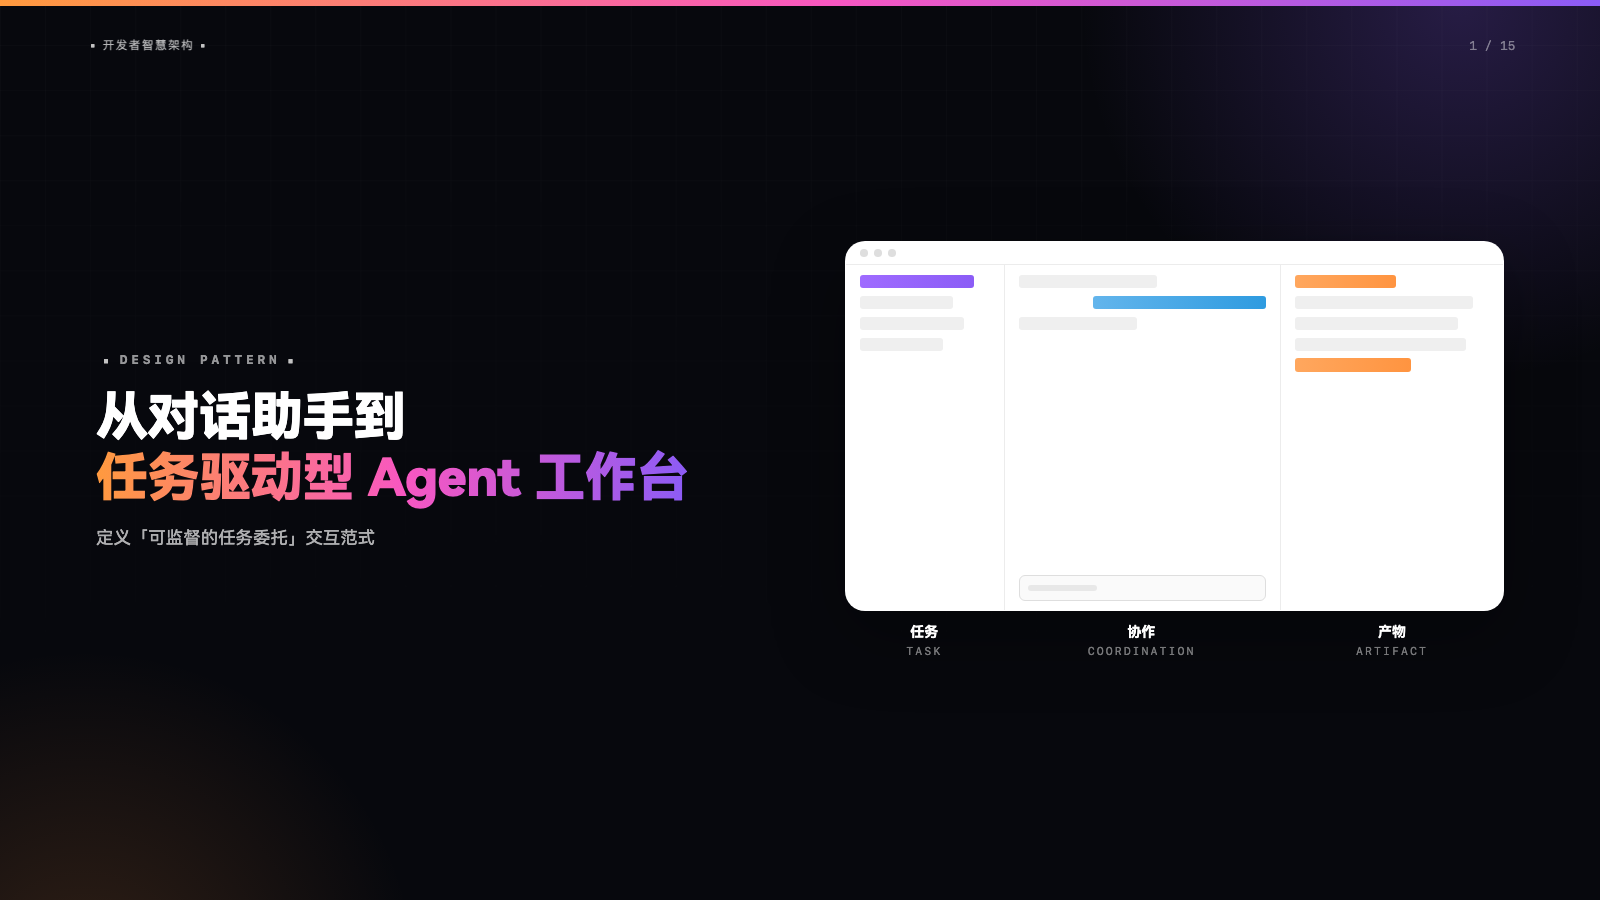
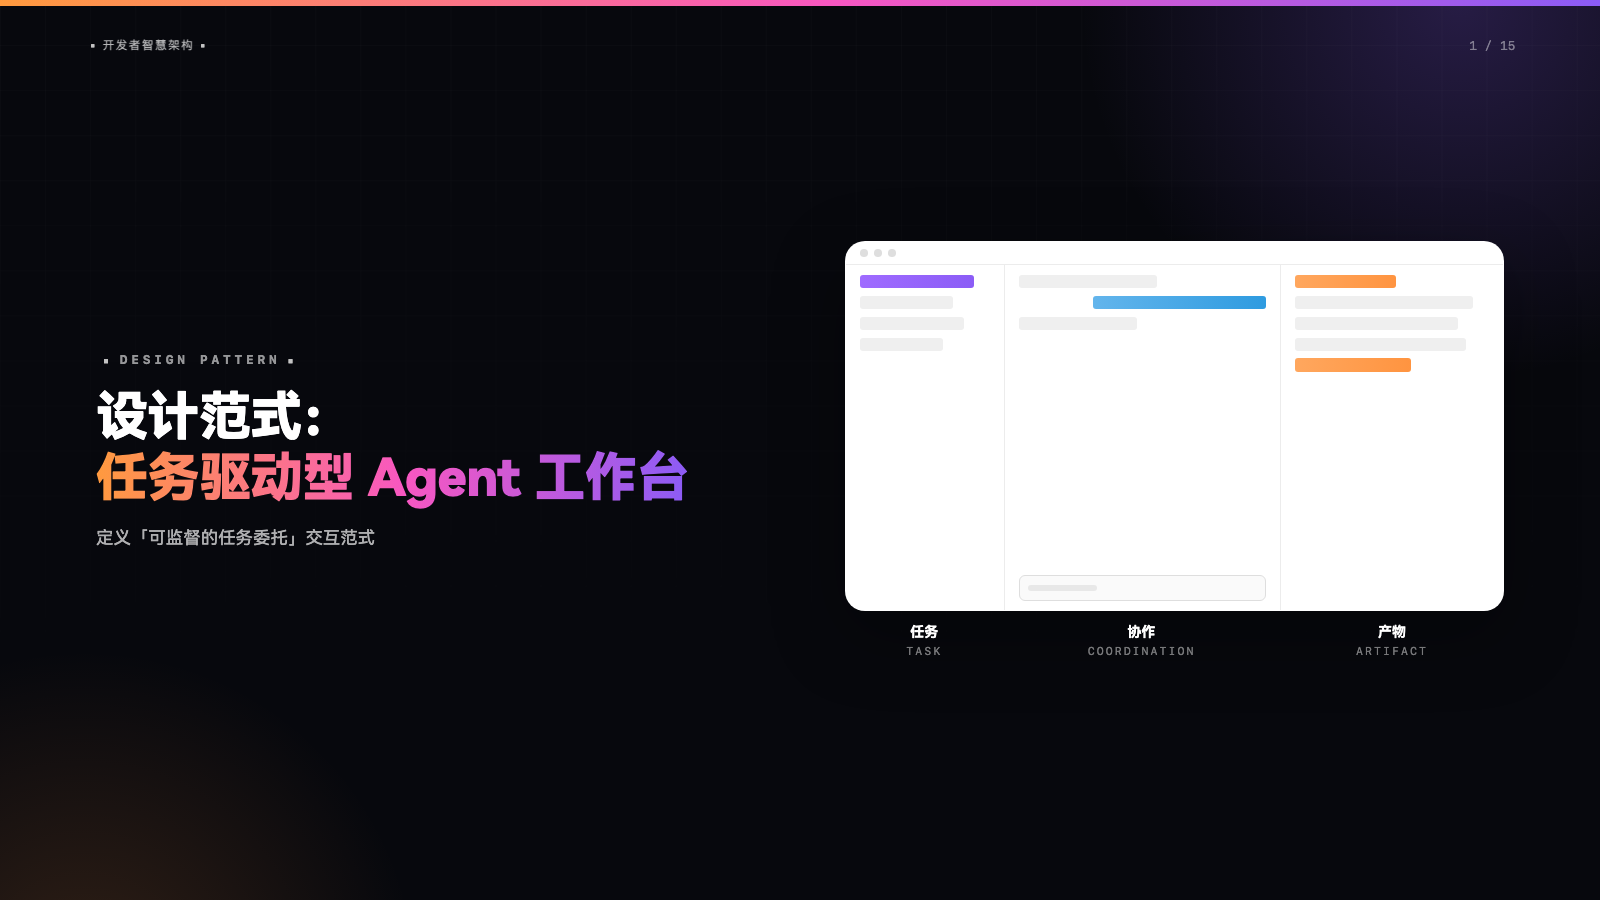
更新 Agent 工作台材料标题

Changed region(s): [[0.0625, 0.4356, 0.25, 0.4978]]

diff --git a/agent-workbench-paradigm/index.html b/agent-workbench-paradigm/index.html
@@ -3,7 +3,7 @@
 <head>
 <meta charset="utf-8">
 <meta name="viewport" content="width=device-width,initial-scale=1">
-<title>从对话助手到任务驱动型 Agent 工作台 · 汇报材料</title>
+<title>设计范式：任务驱动型 Agent 工作台 · 汇报材料</title>
 <link rel="stylesheet" href="https://cdn.jsdelivr.net/gh/IKKI2000/harmonyos-fonts@master/css/harmonyos_sans_sc.css">
 <style>
 /* ===== 设计 token ===== */
@@ -575,7 +575,7 @@ body{font-family:var(--sans);color:var(--ink);background:#0c0d10;
   <div class="cov-row">
   <div class="cov-l">
   <div class="c-kicker">DESIGN&nbsp;PATTERN</div>
-  <h1 class="c-title">从对话助手到<br><span class="kw">任务驱动型 Agent 工作台</span></h1>
+  <h1 class="c-title">设计范式：<br><span class="kw">任务驱动型 Agent 工作台</span></h1>
   <p class="c-sub">定义「可监督的任务委托」交互范式</p>
   </div>
   <div class="cov-r">

diff --git a/index.html b/index.html
@@ -338,7 +338,7 @@ const ITEMS = [
     href: "agentspace-insight/"
   },
   {
-    title: "从对话助手到任务驱动型 Agent 工作台",
+    title: "设计范式：任务驱动型 Agent 工作台",
     cat: "方法", product: "AgentSpace", status: "doc",
     desc: "从助手时代的沉浸式、协作式与情境式交互出发,结合产品与技术趋势,推导以任务、协作和产物为核心的 Agent 工作台范式,并定义可监督的任务委托。",
     preview: "assets/preview-agent-workbench-paradigm.png",